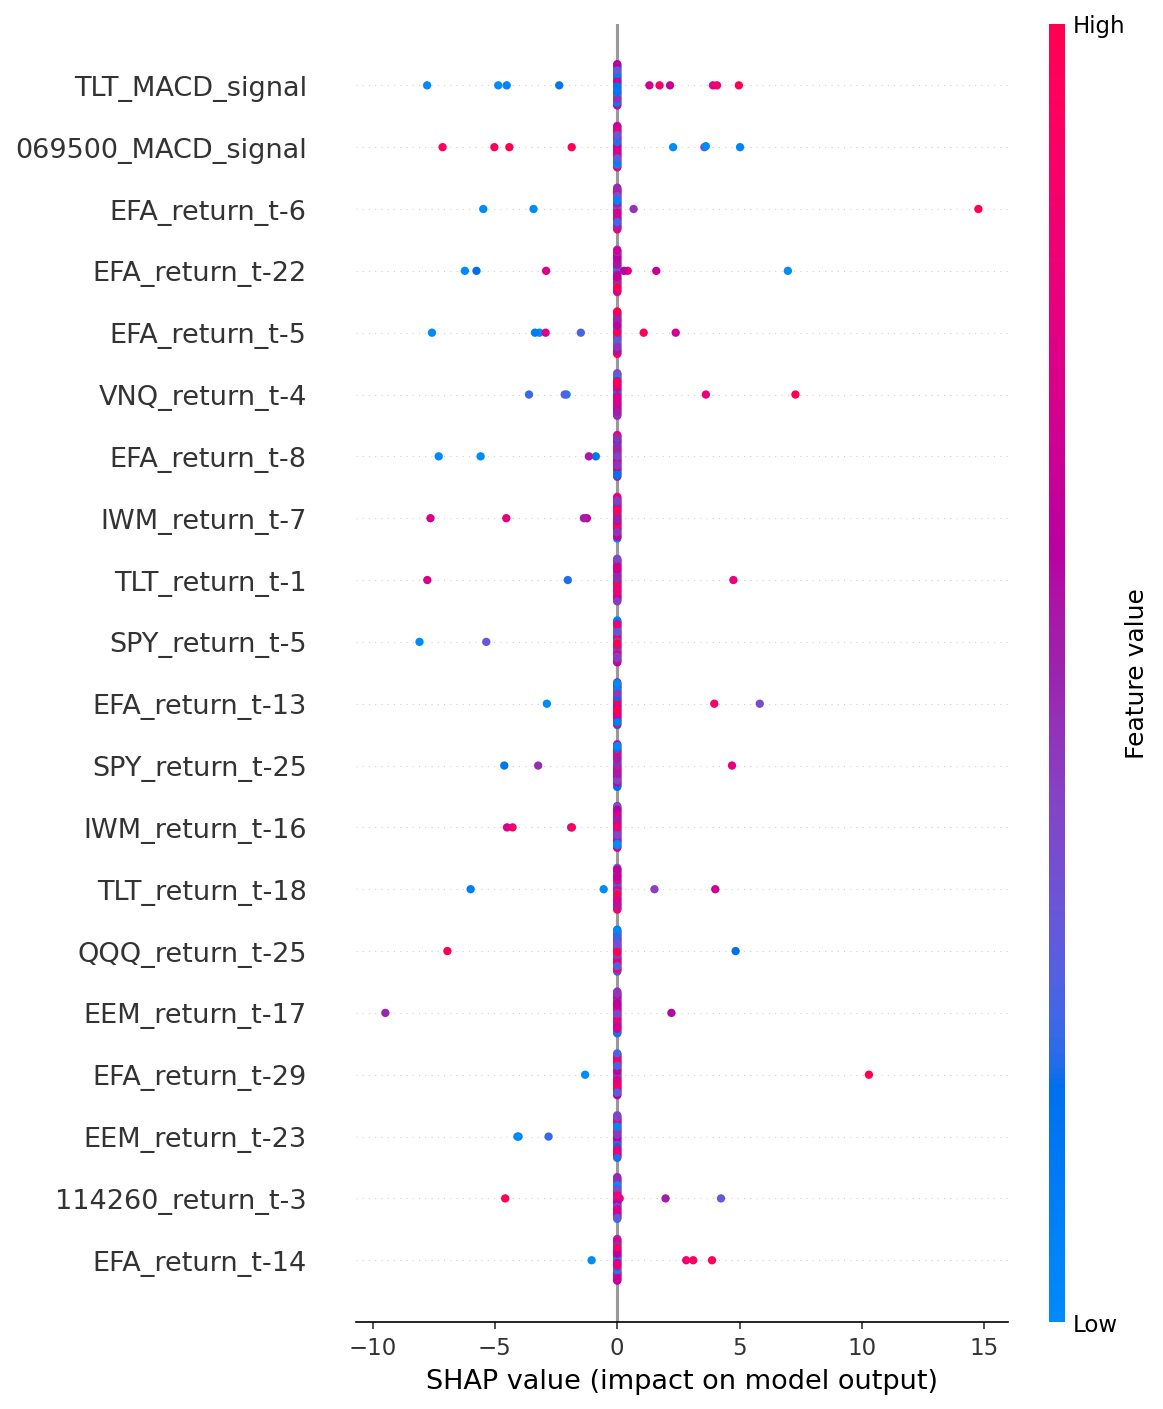
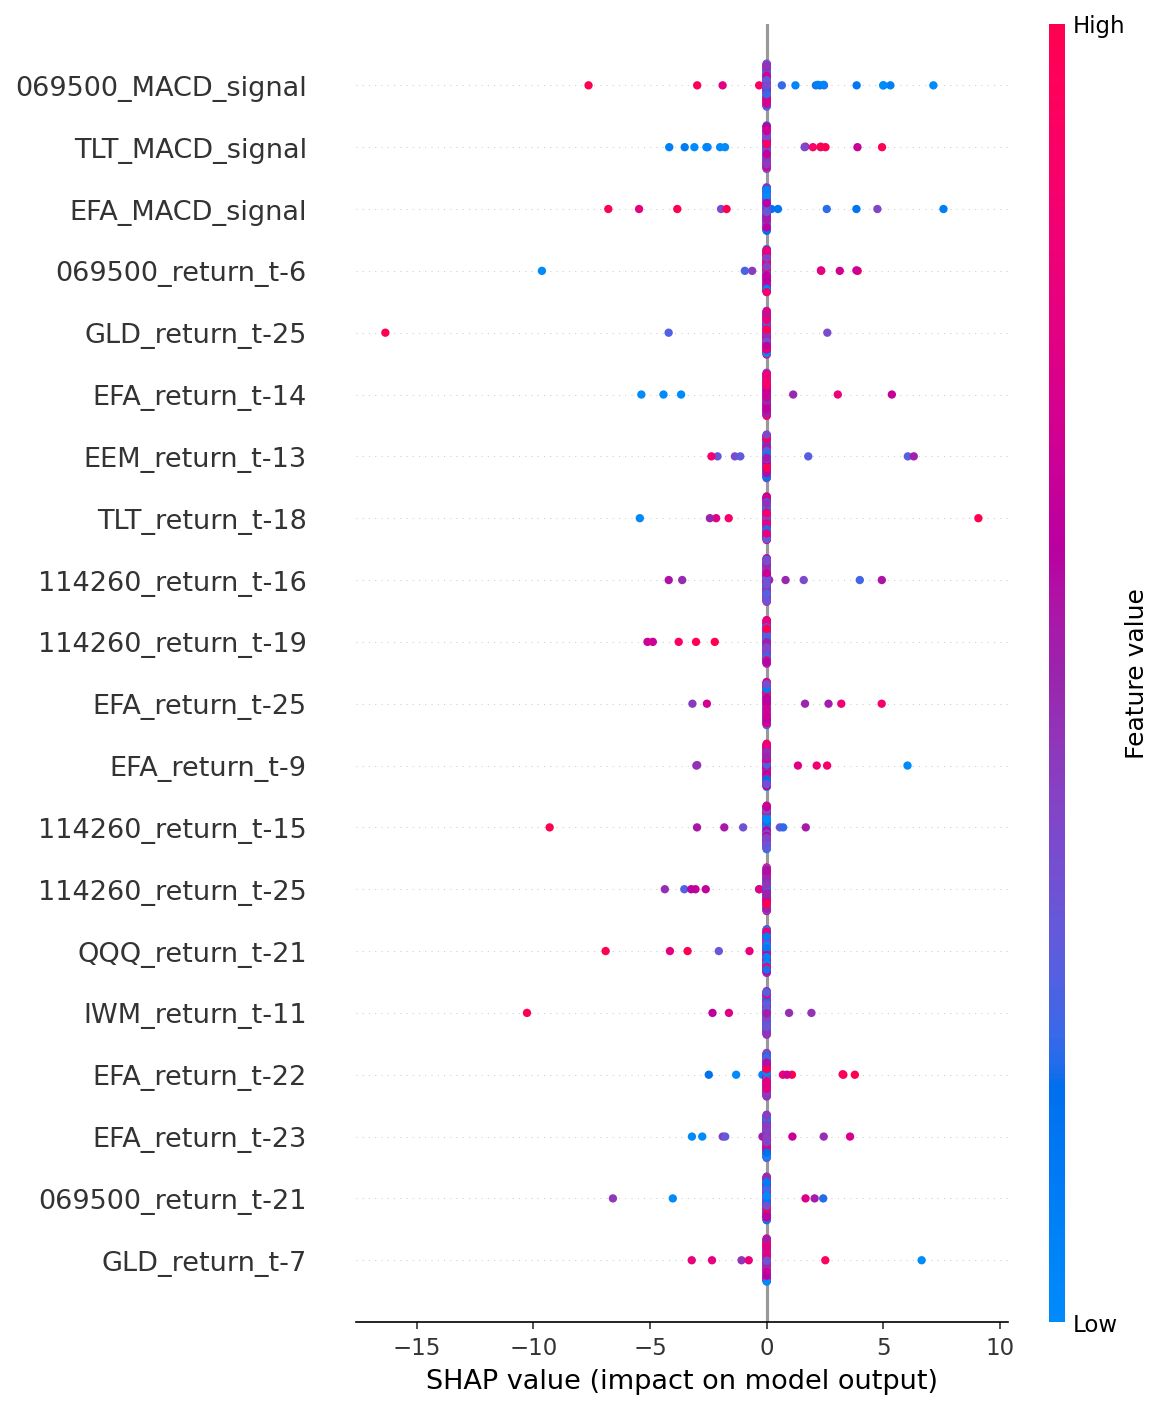
[feat] 재학습 후 shap plot 재생성

diff --git a/src/rl/shap.py b/src/rl/shap.py
@@ -500,3 +500,44 @@ def generate_force_plot(
     )
     shap.save_html(str(html_path), force)
     print(f"Force Plot 저장 완료: {html_path}")
+
+
+if __name__ == "__main__":
+    import json
+    import pandas as pd
+
+    # DEFAULT_MODEL_PATH는 final 윈도우 모델 → final 윈도우 scaler 사용
+    _SCALER_PATH = Path("data/processed/scalers/final_feature_stats.json")
+
+    returns_df = pd.read_parquet("data/processed/returns.parquet")
+    raw_features_df = pd.read_parquet("data/processed/raw_features.parquet")
+
+    if not _SCALER_PATH.exists():
+        raise FileNotFoundError(
+            f"scaler 파일 없음: {_SCALER_PATH}\n"
+            "python -m src.rl.train_walkforward 실행 후 재시도하세요."
+        )
+
+    with open(_SCALER_PATH, encoding="utf-8") as f:
+        stats = json.load(f)
+
+    mean = pd.Series(stats["mean"])
+    std = pd.Series(stats["std"])
+    features_df = (raw_features_df - mean) / std
+
+    summary_path = Path("data/results/shap_summary.png")
+
+    print("SHAP Summary Plot 생성 중...")
+    generate_summary_plot(
+        model_path=DEFAULT_MODEL_PATH,
+        features_df=features_df,
+        returns_df=returns_df,
+        save_path=summary_path,
+    )
+
+    print("SHAP Force Plot 생성 중...")
+    generate_force_plot(
+        model_path=DEFAULT_MODEL_PATH,
+        features_df=features_df,
+        returns_df=returns_df,
+    )